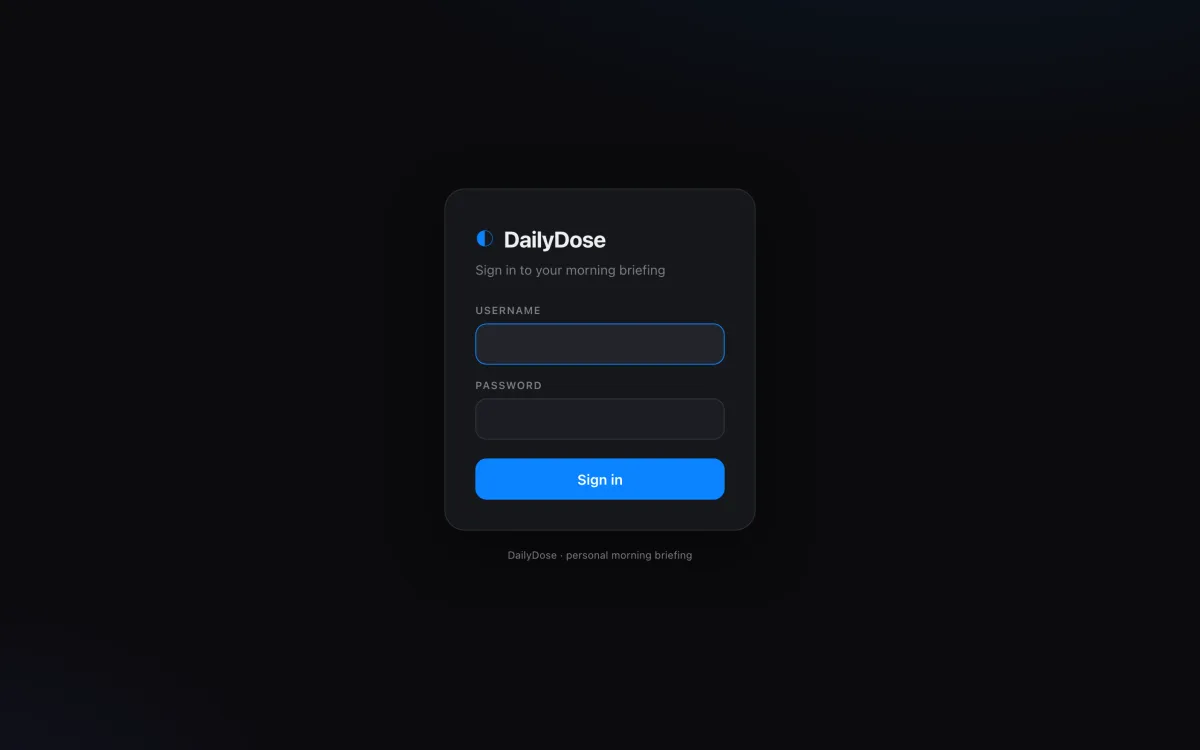
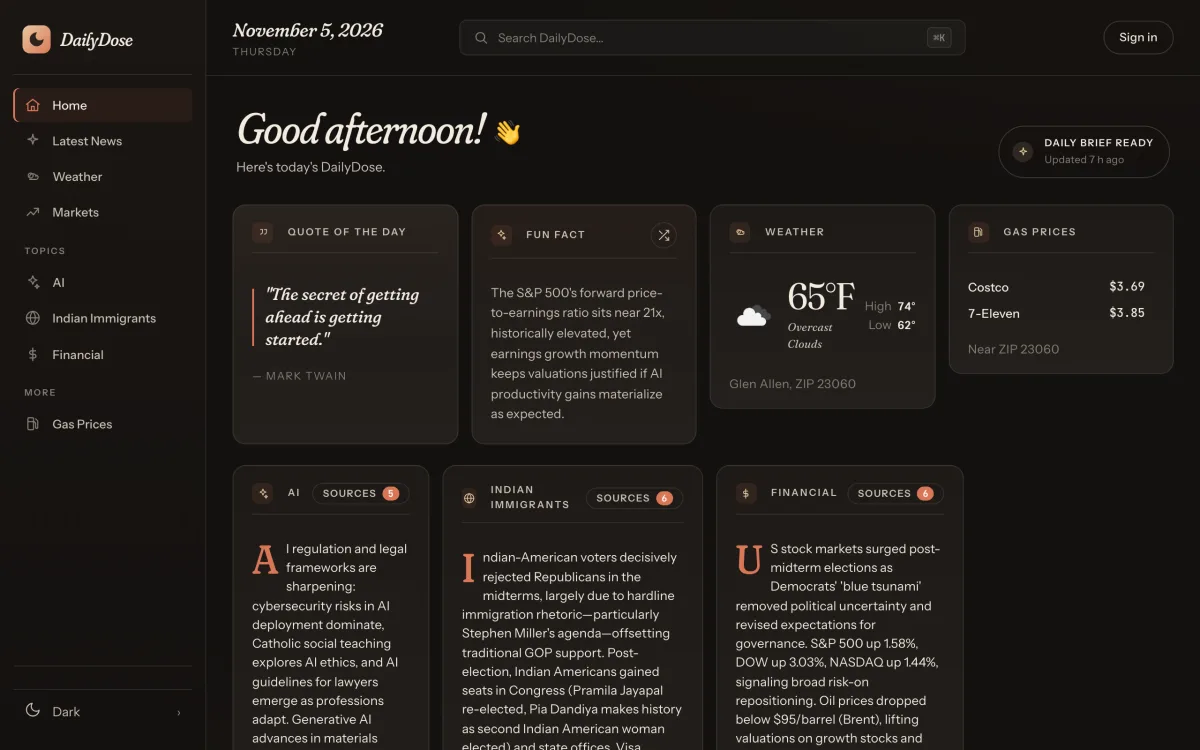
Refresh DailyDose card: public dashboard screenshot, drop private tag

diff --git a/site/index.html b/site/index.html
@@ -208,11 +208,11 @@
         <a class="card reveal" href="https://dailydose.shanuva.com" target="_blank" rel="noopener">
           <figure class="card-shot">
             <div class="chrome mono" aria-hidden="true"><i></i><i></i><i></i><span>dailydose.shanuva.com</span></div>
-            <img src="assets/shots/dailydose.webp" alt="DailyDose — private morning briefing dashboard, sign-in screen" loading="lazy" width="1200" height="750">
+            <img src="assets/shots/dailydose.webp" alt="DailyDose — daily morning briefing dashboard" loading="lazy" width="1200" height="750">
           </figure>
           <div class="card-body">
-            <div class="card-top"><h3>DailyDose</h3><span class="tag mono">dashboard · private</span></div>
-            <p>My personal morning briefing — weather, calendar, and the day's essentials on one screen, brewed fresh before coffee.</p>
+            <div class="card-top"><h3>DailyDose</h3><span class="tag mono">dashboard</span></div>
+            <p>A daily morning briefing — weather, markets, gas prices, and AI-curated news digests on one screen, brewed fresh before coffee.</p>
             <span class="card-link mono">dailydose.shanuva.com <span class="arrow" aria-hidden="true">→</span></span>
           </div>
         </a>
